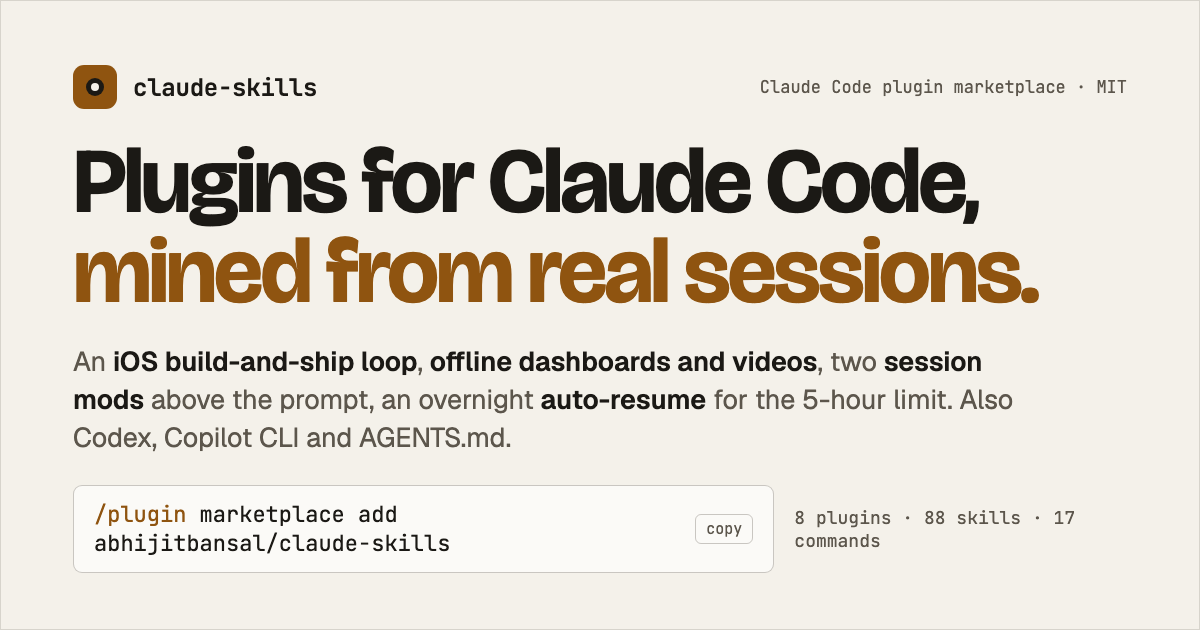
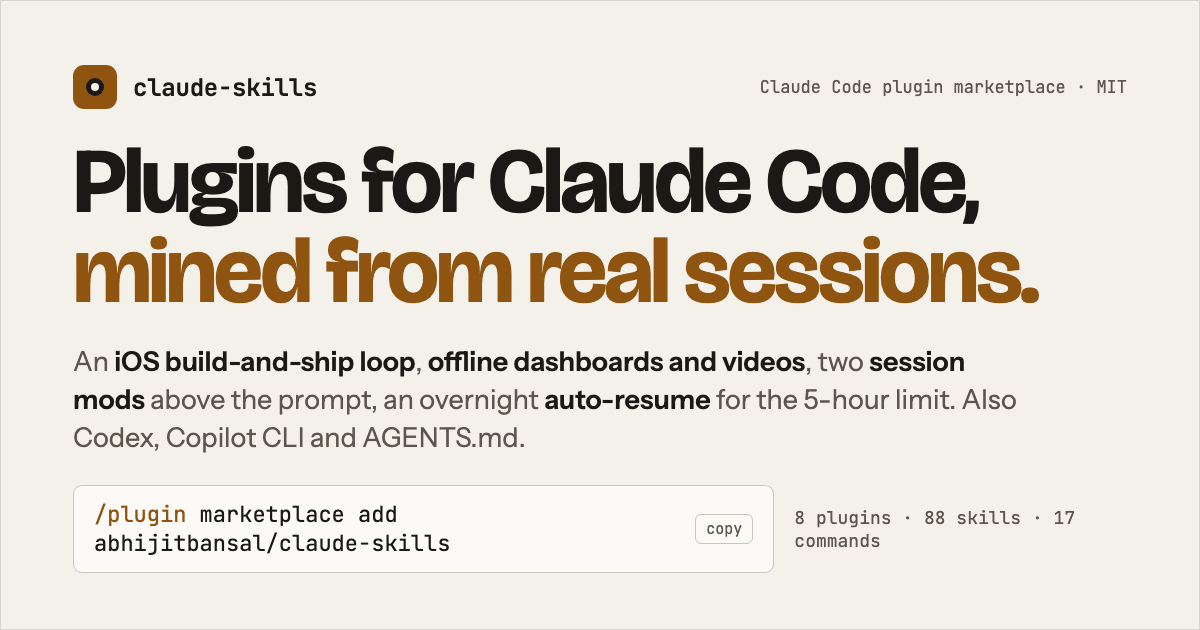
fix(site): Instrument Sans for body text, callouts without the side tab
Geist sits on the overused-font list the design hook checks against, so
the body face is now Instrument Sans (OFL, latin variable WOFF2,
licence row updated). Callouts drop the thick left accent border, the
most recognisable AI-UI tell, in favour of a plain hairline; warning
callouts tint the hairline instead. og.png re-rendered.

Claude-Session: https://claude.ai/code/session_01Pkq49xrxnWDuZGip735fyb

Changed region(s): [[0.0617, 0.5429, 0.8633, 0.7238]]

diff --git a/site/assets/site.css b/site/assets/site.css
@@ -8,8 +8,8 @@
 
 /* Self-hosted fonts (latin, variable) — see skill site-og-favicon-verify:
    externally-hosted fonts break under a strict CSP and leak visitor IPs.
-   Geist and Bricolage Grotesque: SIL Open Font License. JetBrains Mono: OFL. */
-@font-face{font-family:'Geist';font-style:normal;font-weight:400 700;font-display:swap;src:url('fonts/geist-latin-variable.woff2') format('woff2');}
+   Instrument Sans and Bricolage Grotesque: SIL Open Font License. JetBrains Mono: OFL. */
+@font-face{font-family:'Instrument Sans';font-style:normal;font-weight:400 700;font-display:swap;src:url('fonts/instrument-sans-latin-variable.woff2') format('woff2');}
 @font-face{font-family:'Bricolage Grotesque';font-style:normal;font-weight:400 800;font-display:swap;src:url('fonts/bricolage-grotesque-latin-variable.woff2') format('woff2');}
 @font-face{font-family:'JetBrains Mono';font-style:normal;font-weight:400 700;font-display:swap;src:url('fonts/jetbrains-mono-latin-variable.woff2') format('woff2');}
 
@@ -34,7 +34,7 @@
   --r-lg:14px; --r-md:10px; --r-sm:7px;
   --shadow:0 1px 2px rgba(43,35,22,.05), 0 14px 36px -18px rgba(43,35,22,.18);
   --font-head:'Bricolage Grotesque',sans-serif;
-  --font-body:'Geist',system-ui,sans-serif;
+  --font-body:'Instrument Sans',system-ui,sans-serif;
   --font-mono:'JetBrains Mono',ui-monospace,monospace;
 }
 @media (prefers-color-scheme: dark){
@@ -248,10 +248,10 @@ h3.subtitle{font-size:clamp(20px,2.6vw,26px);font-weight:600;margin:0 0 10px}
   font-family:var(--font-mono);font-weight:700;font-size:13px;display:flex;align-items:center;justify-content:center}
 
 /* callouts */
-.callout{border:1px solid var(--border);border-left:3px solid var(--accent);background:var(--surface);
+.callout{border:1px solid var(--border);background:var(--surface);
   border-radius:var(--r-sm);padding:14px 16px;font-size:14.5px;color:var(--text-dim);margin:16px 0}
 .callout b{color:var(--text)}
-.callout.warn{border-left-color:var(--rose)}
+.callout.warn{border-color:color-mix(in srgb,var(--rose) 45%,var(--border))}
 .callout .ti{font-family:var(--font-mono);font-size:12px;letter-spacing:.04em;color:var(--accent);display:block;margin-bottom:4px}
 .callout.warn .ti{color:var(--rose)}
 

diff --git a/site/og.html b/site/og.html
@@ -6,12 +6,12 @@
 <!-- Source for og.png (1200×630 social card). Rendered to og.png with headless Chrome; not served directly. -->
 <style>
 @font-face{font-family:'Bricolage Grotesque';font-style:normal;font-weight:400 800;font-display:swap;src:url('assets/fonts/bricolage-grotesque-latin-variable.woff2') format('woff2');}
-@font-face{font-family:'Geist';font-style:normal;font-weight:400 700;font-display:swap;src:url('assets/fonts/geist-latin-variable.woff2') format('woff2');}
+@font-face{font-family:'Instrument Sans';font-style:normal;font-weight:400 700;font-display:swap;src:url('assets/fonts/instrument-sans-latin-variable.woff2') format('woff2');}
 @font-face{font-family:'JetBrains Mono';font-style:normal;font-weight:400 700;font-display:swap;src:url('assets/fonts/jetbrains-mono-latin-variable.woff2') format('woff2');}
 *{margin:0;box-sizing:border-box}
 html,body{width:1200px;height:630px;overflow:hidden}
 body{
-  font-family:'Geist',sans-serif;color:#1b1915;background:#f4f1ea;
+  font-family:'Instrument Sans',sans-serif;color:#1b1915;background:#f4f1ea;
   padding:64px 72px 56px;display:flex;flex-direction:column;justify-content:space-between;
   border:1px solid rgba(43,35,22,.14);
 }

diff --git a/site/assets/fonts/LICENSES.md b/site/assets/fonts/LICENSES.md
@@ -7,5 +7,5 @@ distributed under the SIL Open Font License 1.1
 | File | Family | Copyright |
 | --- | --- | --- |
 | `bricolage-grotesque-latin-variable.woff2` | Bricolage Grotesque | © 2022 The Bricolage Grotesque Project Authors (https://github.com/ateliertriay/bricolage) |
-| `geist-latin-variable.woff2` | Geist | © 2023 Vercel, in collaboration with basement.studio (https://github.com/vercel/geist-font) |
+| `instrument-sans-latin-variable.woff2` | Instrument Sans | © 2022 The Instrument Sans Project Authors (https://github.com/Instrument/instrument-sans) |
 | `jetbrains-mono-latin-variable.woff2` | JetBrains Mono | © 2020 The JetBrains Mono Project Authors (https://github.com/JetBrains/JetBrainsMono) |
